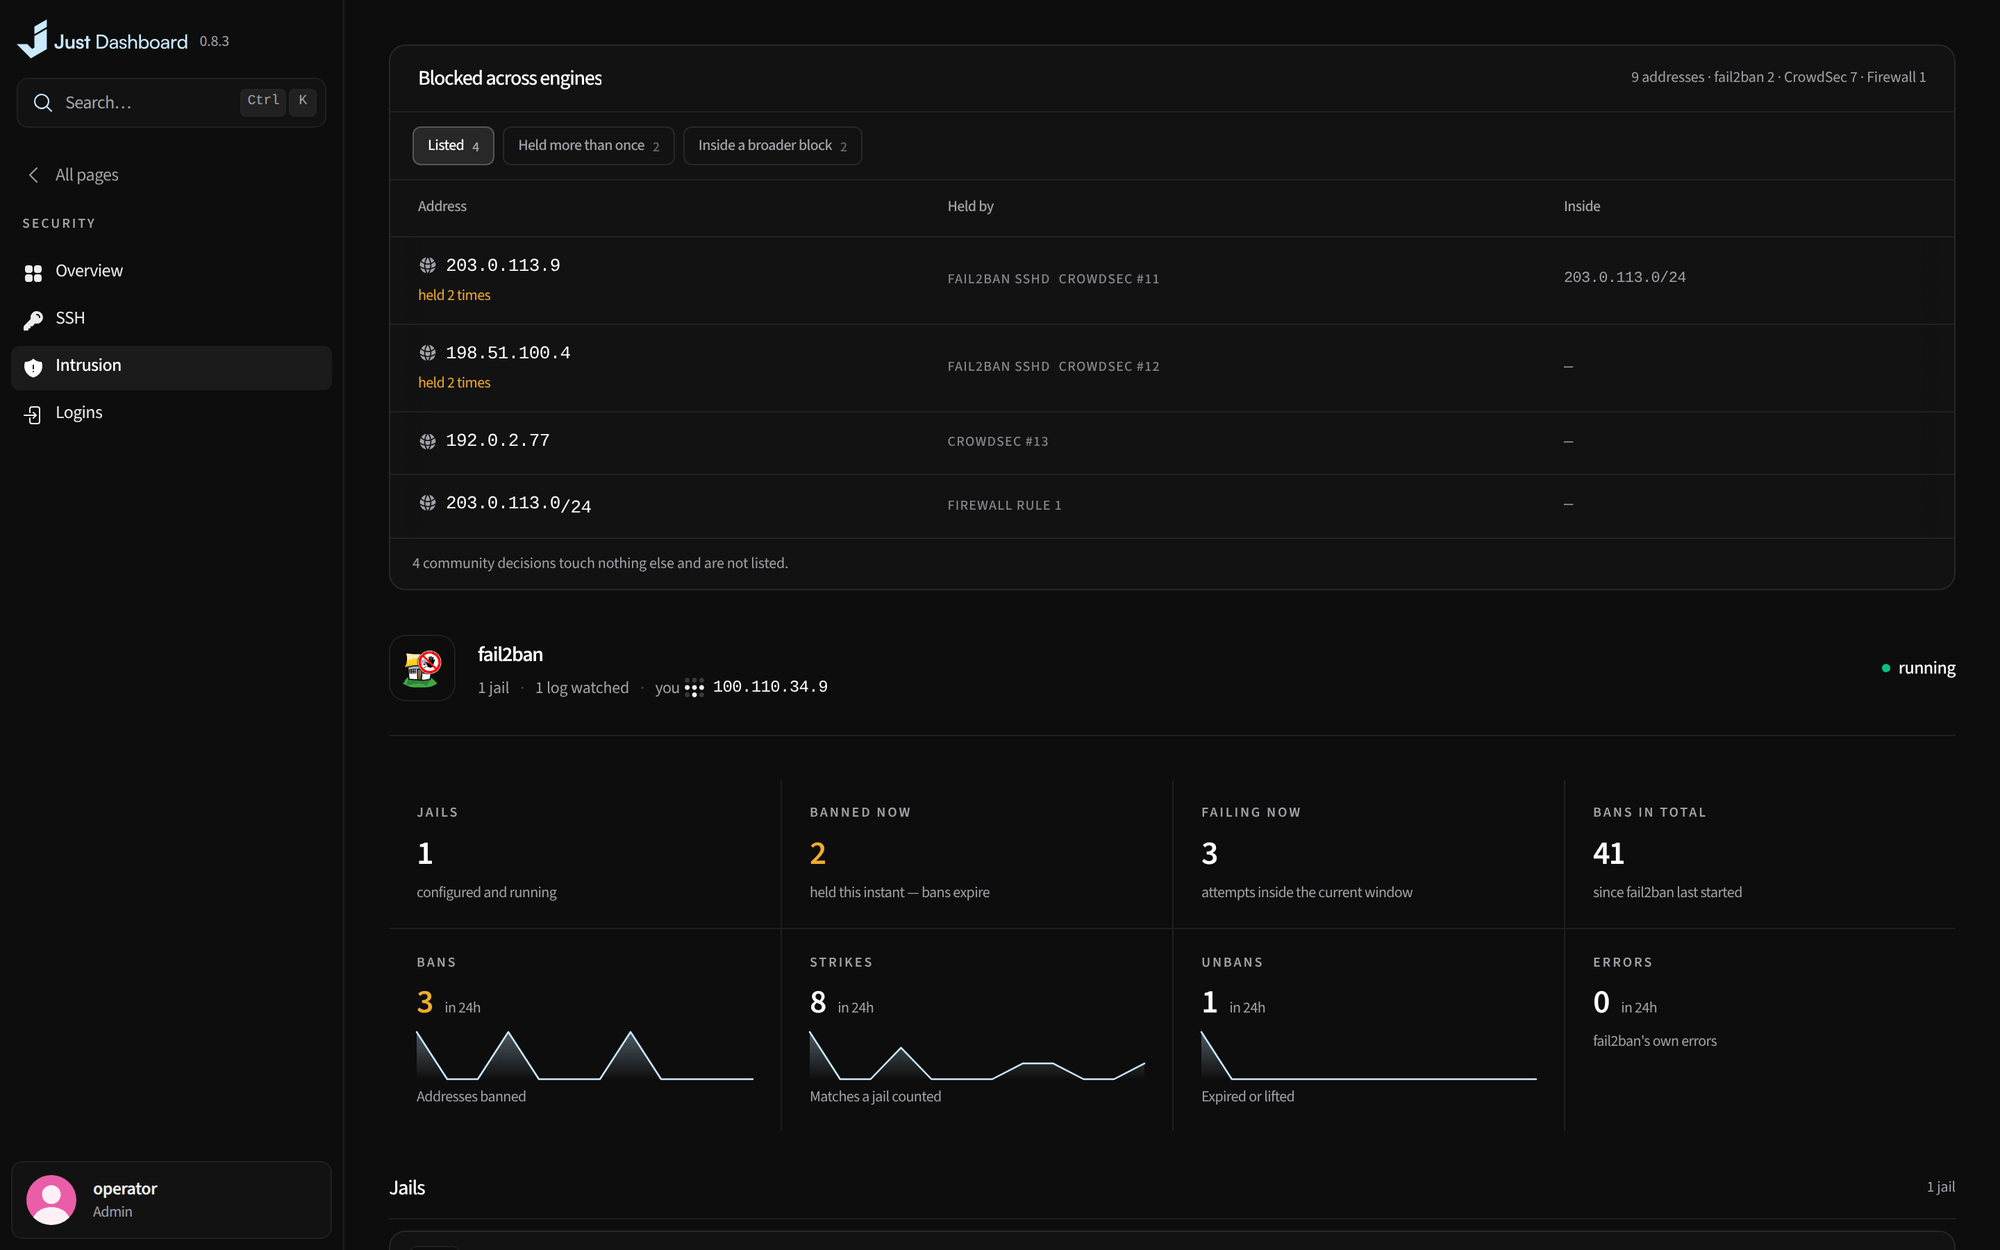
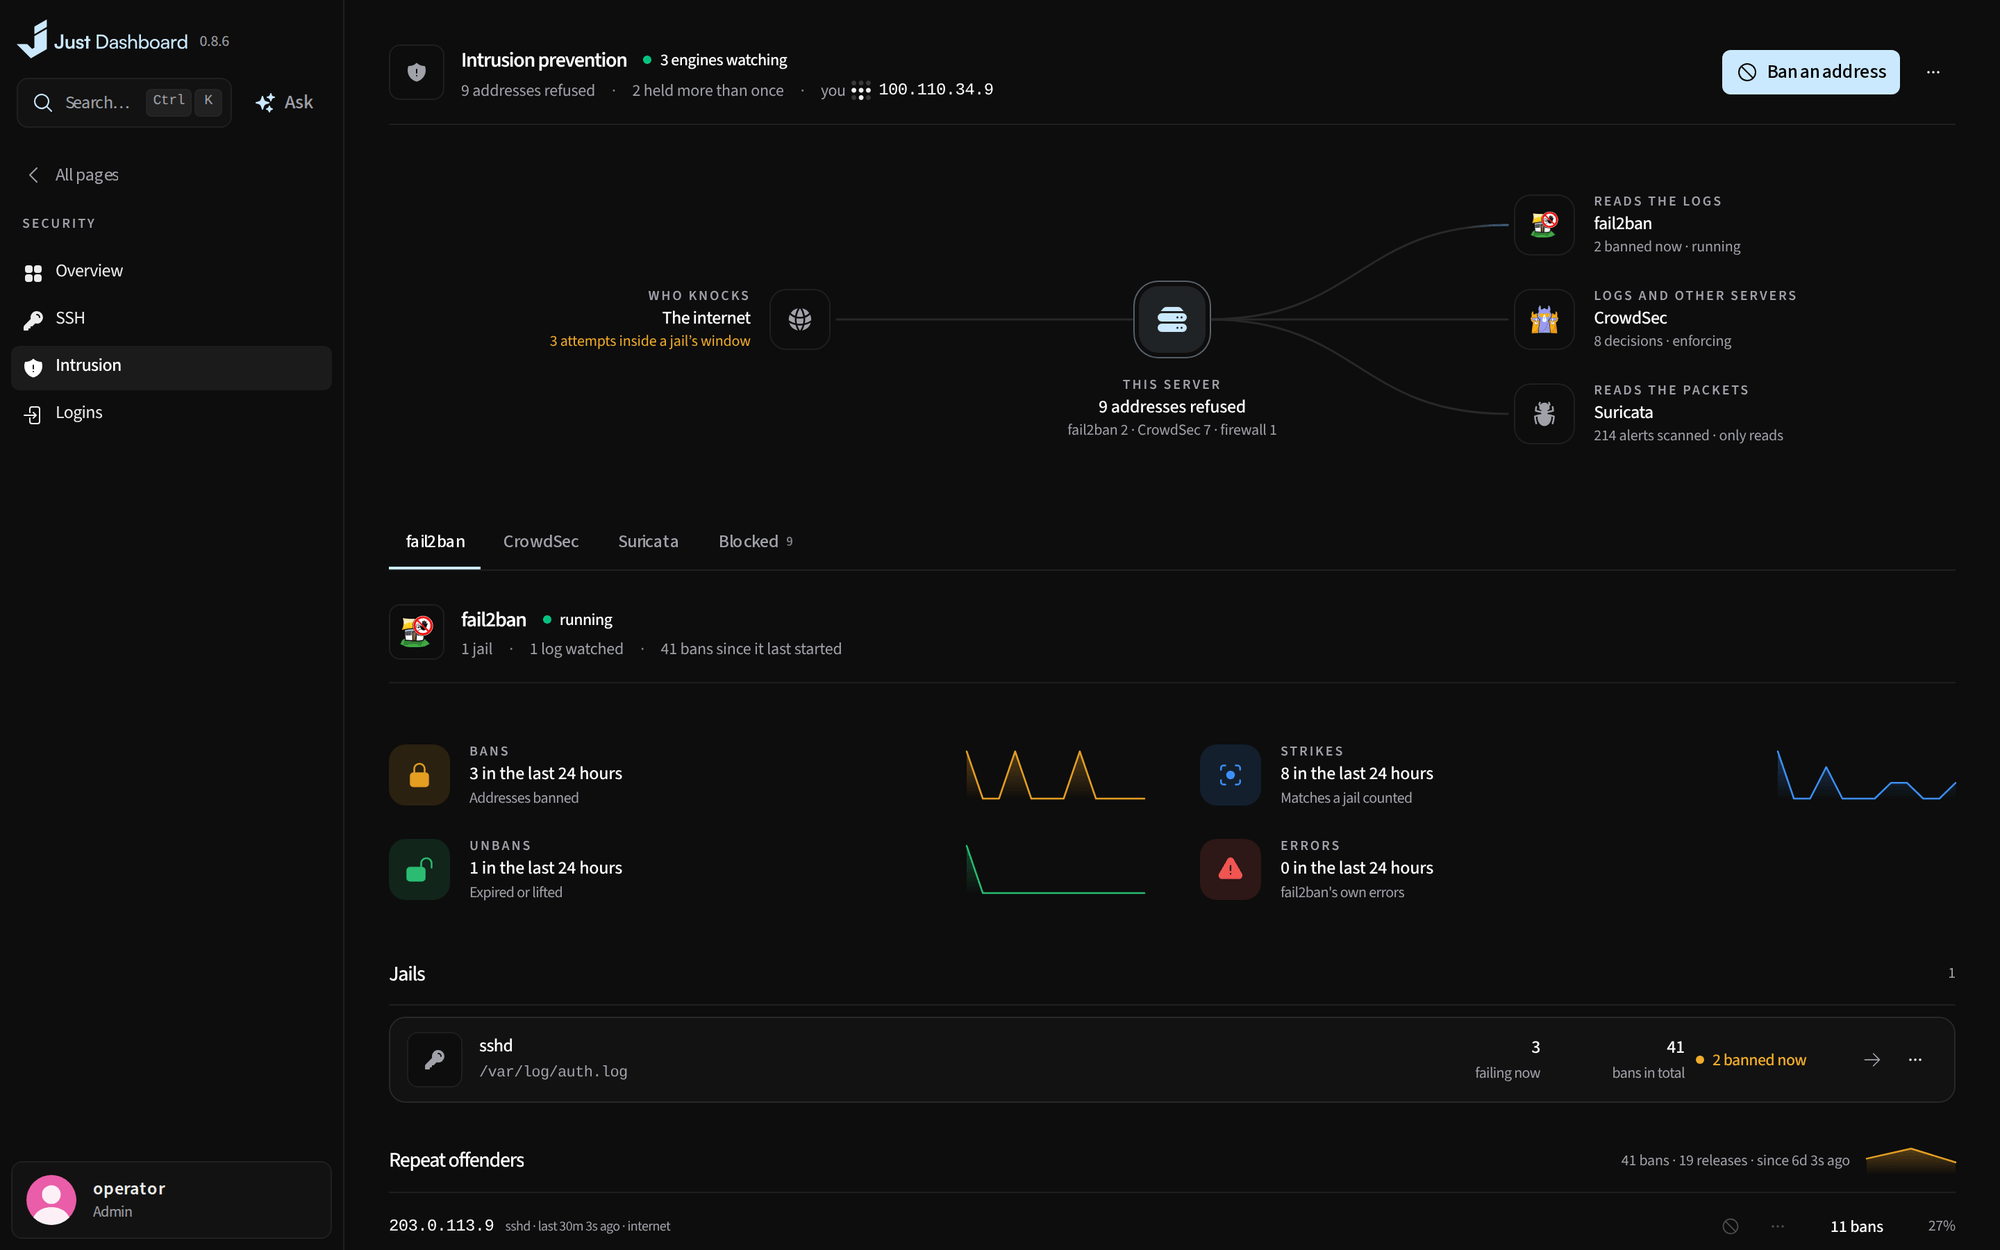
Reshoot the two Security pictures the feature pages show
The Intrusion and SSH frames in docs/readme were of the pages before this
branch. Taken again from the same fixtures at the same size. A jail's
figures also keep a step from its state.

diff --git a/frontend/src/components/security/jail-panel.tsx b/frontend/src/components/security/jail-panel.tsx
@@ -184,7 +184,7 @@ export function JailsPanel({
  */
 function JailFigure({ value, label }: { value: number; label: string }) {
   return (
-    <span className="flex w-24 shrink-0 flex-col items-end max-md:hidden">
+    <span className="flex w-24 shrink-0 flex-col items-end pr-3 max-md:hidden">
       <span
         className={cn(
           "numeric text-body leading-5 font-medium",
